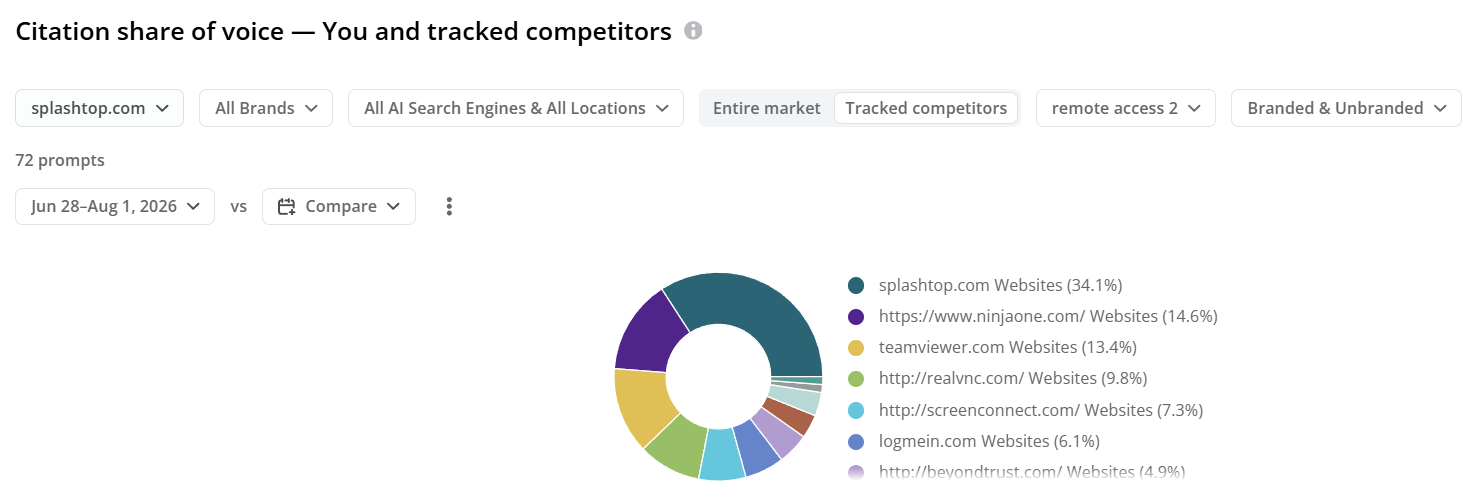
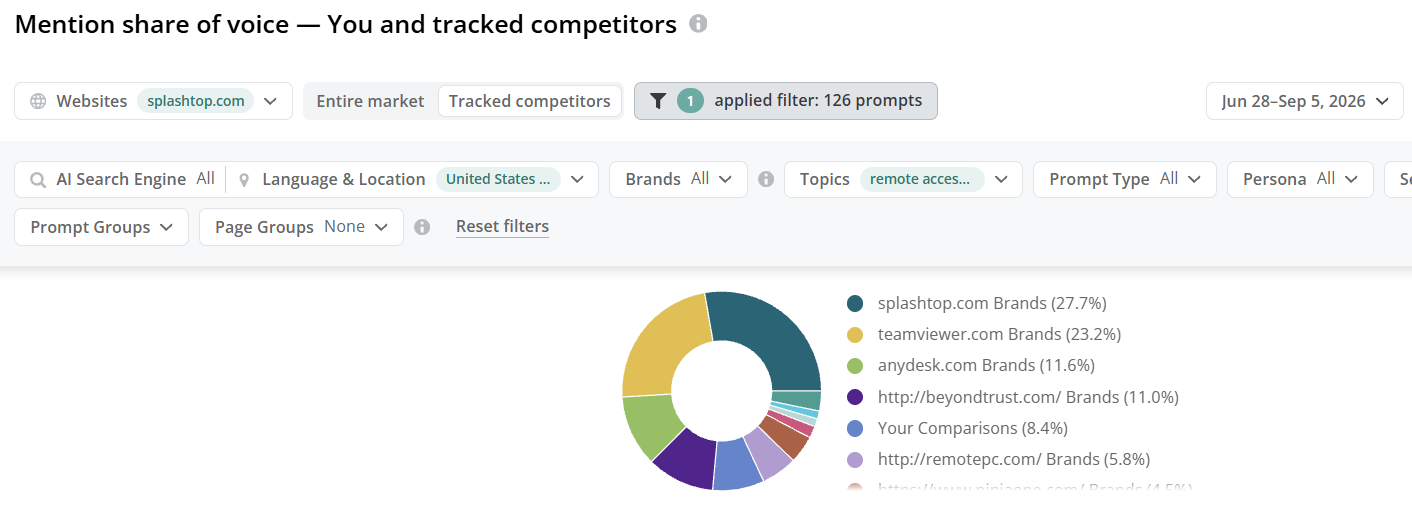
Add highlights

diff --git a/components/HighlightsSection.tsx b/components/HighlightsSection.tsx
@@ -20,13 +20,10 @@ const HighlightsSection = () => {
 
             <div>
               <h3 className="text-2xl font-semibold text-gray-900 leading-snug">
-                Sustained Top 5 Rankings for "Remote Access"
-              </h3>
+“Remote Access” Maintains Strong Top 5 Visibility              </h3>
 
               <p className="text-gray-600 mt-4 leading-8 text-[15px] max-w-4xl">
-                The <strong>"Remote Access"</strong> keyword continued to maintain
-                a stable <strong>Top 5</strong> position, reflecting sustained
-                authority and long-term search visibility.
+             The “Remote Access” keyword continued its upward trajectory, reaching #5 in August and maintaining strong visibility for one of Splashtop’s core search categories.
               </p>
             </div>
           </div>
@@ -49,21 +46,19 @@ const HighlightsSection = () => {
 
             <div>
               <h3 className="text-2xl font-semibold text-gray-900 leading-snug">
-                "Remote Support" Breaks into the Top 10
+              Major Ranking Breakthrough for “Patch Management”
               </h3>
 
               <p className="text-gray-700 mt-4 leading-8 text-[15px] max-w-4xl">
-                Continued backlink acquisition contributed to the fluctuating
-                <strong> "Remote Support"</strong> keyword entering the
-                <strong> Top 10</strong>, strengthening visibility for a
-                high-value business category.
+              The “Patch Management” keyword made a substantial jump from the 40s into the Top 10, reaching #6 in August and significantly expanding visibility for this priority category.
+
               </p>
             </div>
           </div>
 
         <div className="mt-8 border-2 border-gray-300 rounded-2xl overflow-hidden shadow-md bg-white p-3">
   <img
-    src="/remote_support.png"
+    src="/patch_management.png"
     alt="Remote Support Top 10 ranking"
     className="w-full rounded-lg object-cover"
   />
@@ -79,21 +74,19 @@ const HighlightsSection = () => {
 
             <div>
               <h3 className="text-2xl font-semibold text-gray-900 leading-snug">
-                Capturing High-Intent Comparison Searches – "AnyDesk Pricing"
+                “TeamViewer Pricing” Strengthens Competitive Visibility
               </h3>
 
               <p className="text-gray-700 mt-4 leading-8 text-[15px] max-w-4xl">
-                Maintained a <strong>Top 5</strong> ranking for the high-intent
-                <strong> "AnyDesk Pricing"</strong> keyword, strengthening
-                visibility among users actively comparing remote access
-                solutions.
+                The “TeamViewer Pricing” keyword recovered from ranking fluctuations and reached #5.3 in August, strengthening Splashtop’s position in a key competitor-focused search.
+
               </p>
             </div>
           </div>
 
           <div className="mt-8 border-2 border-gray-300 rounded-2xl overflow-hidden shadow-md bg-white p-3">
             <img
-              src="/anydesk.png"
+              src="/teamviewer.png"
               alt="AnyDesk Pricing ranking"
               className="w-full object-cover rounded-lg"
             />
@@ -109,20 +102,18 @@ const HighlightsSection = () => {
 
             <div>
               <h3 className="text-2xl font-semibold text-gray-900 leading-snug">
-                Driving Visibility Across Competitor Keywords – "TeamViewer Pricing"
+              “AnyDesk Pricing” Secures a Top 5 Ranking
               </h3>
 
               <p className="text-gray-700 mt-4 leading-8 text-[15px] max-w-4xl">
-                Continued <strong>Top 5</strong> rankings for
-                <strong> "TeamViewer Pricing"</strong> helped strengthen
-                Splashtop's share of voice for competitor pricing queries.
+                The “AnyDesk Pricing” keyword strengthened from a lower first-page position to #3.8 in August, establishing a strong Top 5 position and improving visibility for a high-intent pricing search.
               </p>
             </div>
           </div>
 
           <div className="mt-8 border-2 border-gray-300 rounded-2xl overflow-hidden shadow-md bg-white p-3">
             <img
-              src="/teamviewer.png"
+              src="/anydesk.png"
               alt="TeamViewer Pricing ranking"
               className="w-full object-cover rounded-lg"
             />
@@ -145,12 +136,11 @@ const HighlightsSection = () => {
 
       <div>
         <h3 className="text-2xl font-semibold text-gray-900">
-      Rapid Growth in Overall AI Website Citations
+     Strongest AI Visibility Across Key Categories
         </h3>
 
         <p className="text-gray-700 mt-4 leading-8 text-[15px] max-w-5xl">
-          AI citations have increased consistently over recent months, demonstrating stronger content authority and improved visibility in AI-generated search experiences.
-        </p>
+Splashtop is the only player represented across all 10 priority topics, with Top 2 rankings across 8 of the 10, demonstrating the broadest and strongest AI visibility across the tracked categories.        </p>
       </div>
     </div>
 
@@ -174,12 +164,11 @@ const HighlightsSection = () => {
 
       <div>
         <h3 className="text-2xl font-semibold text-gray-900">
-          Strong AI Authority in Remote Access
+         #1 AI Mention Share in Remote Access
         </h3>
 
         <p className="text-gray-700 mt-4 leading-8 text-[15px] max-w-5xl">
-        Splashtop captured the highest AI citation share in the Remote Access category, more than doubling TeamViewer's citation 
-        share and reinforcing its authority in a core business category.
+        Splashtop secured the highest share of AI brand mentions at 27.7%, maintaining a clear lead over TeamViewer and other tracked competitors across the monitored remote access prompts.
         </p>
       </div>
     </div>
@@ -204,12 +193,11 @@ const HighlightsSection = () => {
 
       <div>
         <h3 className="text-2xl font-semibold text-gray-900">
-#1 AI-Cited Brand for Remote Desktop
+Dominant AI Citation Share in Remote Support
         </h3>
 
         <p className="text-gray-700 mt-4 leading-8 text-[15px] max-w-5xl">
-        Splashtop captured over half of all AI citations (51.5%) in the Remote Desktop category, nearly tripling TeamViewer's
-         citation share and establishing a dominant position in AI-generated responses.
+    Splashtop captured the highest AI citation share in the Remote Support category at 28.9%, leading TeamViewer by more than 11 percentage points and strengthening its visibility across AI-generated responses.
         </p>
       </div>
     </div>
@@ -223,6 +211,34 @@ const HighlightsSection = () => {
         />
       </div>
     </div>
+  </div>
+  
+  {/* LLM Highlight 4 */}
+  <div className="mb-16">
+    <div className="flex items-start gap-4 mb-5">
+      <div className="w-10 h-10 rounded-full bg-emerald-100 text-emerald-600 flex items-center justify-center font-bold text-lg">
+        4
+      </div>
+
+      <div>
+        <h3 className="text-2xl font-semibold text-gray-900">
+       Leading AI Citation Presence in AEM
+        </h3>
+
+        <p className="text-gray-700 mt-4 leading-8 text-[15px] max-w-5xl">
+Splashtop secured a 28.1% AI citation share in the AEM category, tying for the highest share among tracked competitors and establishing a leading position in AI-generated AEM responses.        </p>
+      </div>
+    </div>
+
+   <div className="mt-8 flex justify-center">
+  <div className="w-full max-w-2xl border-2 border-gray-300 rounded-2xl overflow-hidden shadow-md bg-white p-4">
+    <img
+      src="/llm-4.png"
+      alt="AI Brand Mentions"
+      className="w-full h-auto object-contain rounded-lg"
+    />
+  </div>
+</div>
   </div>
 </div>
 
